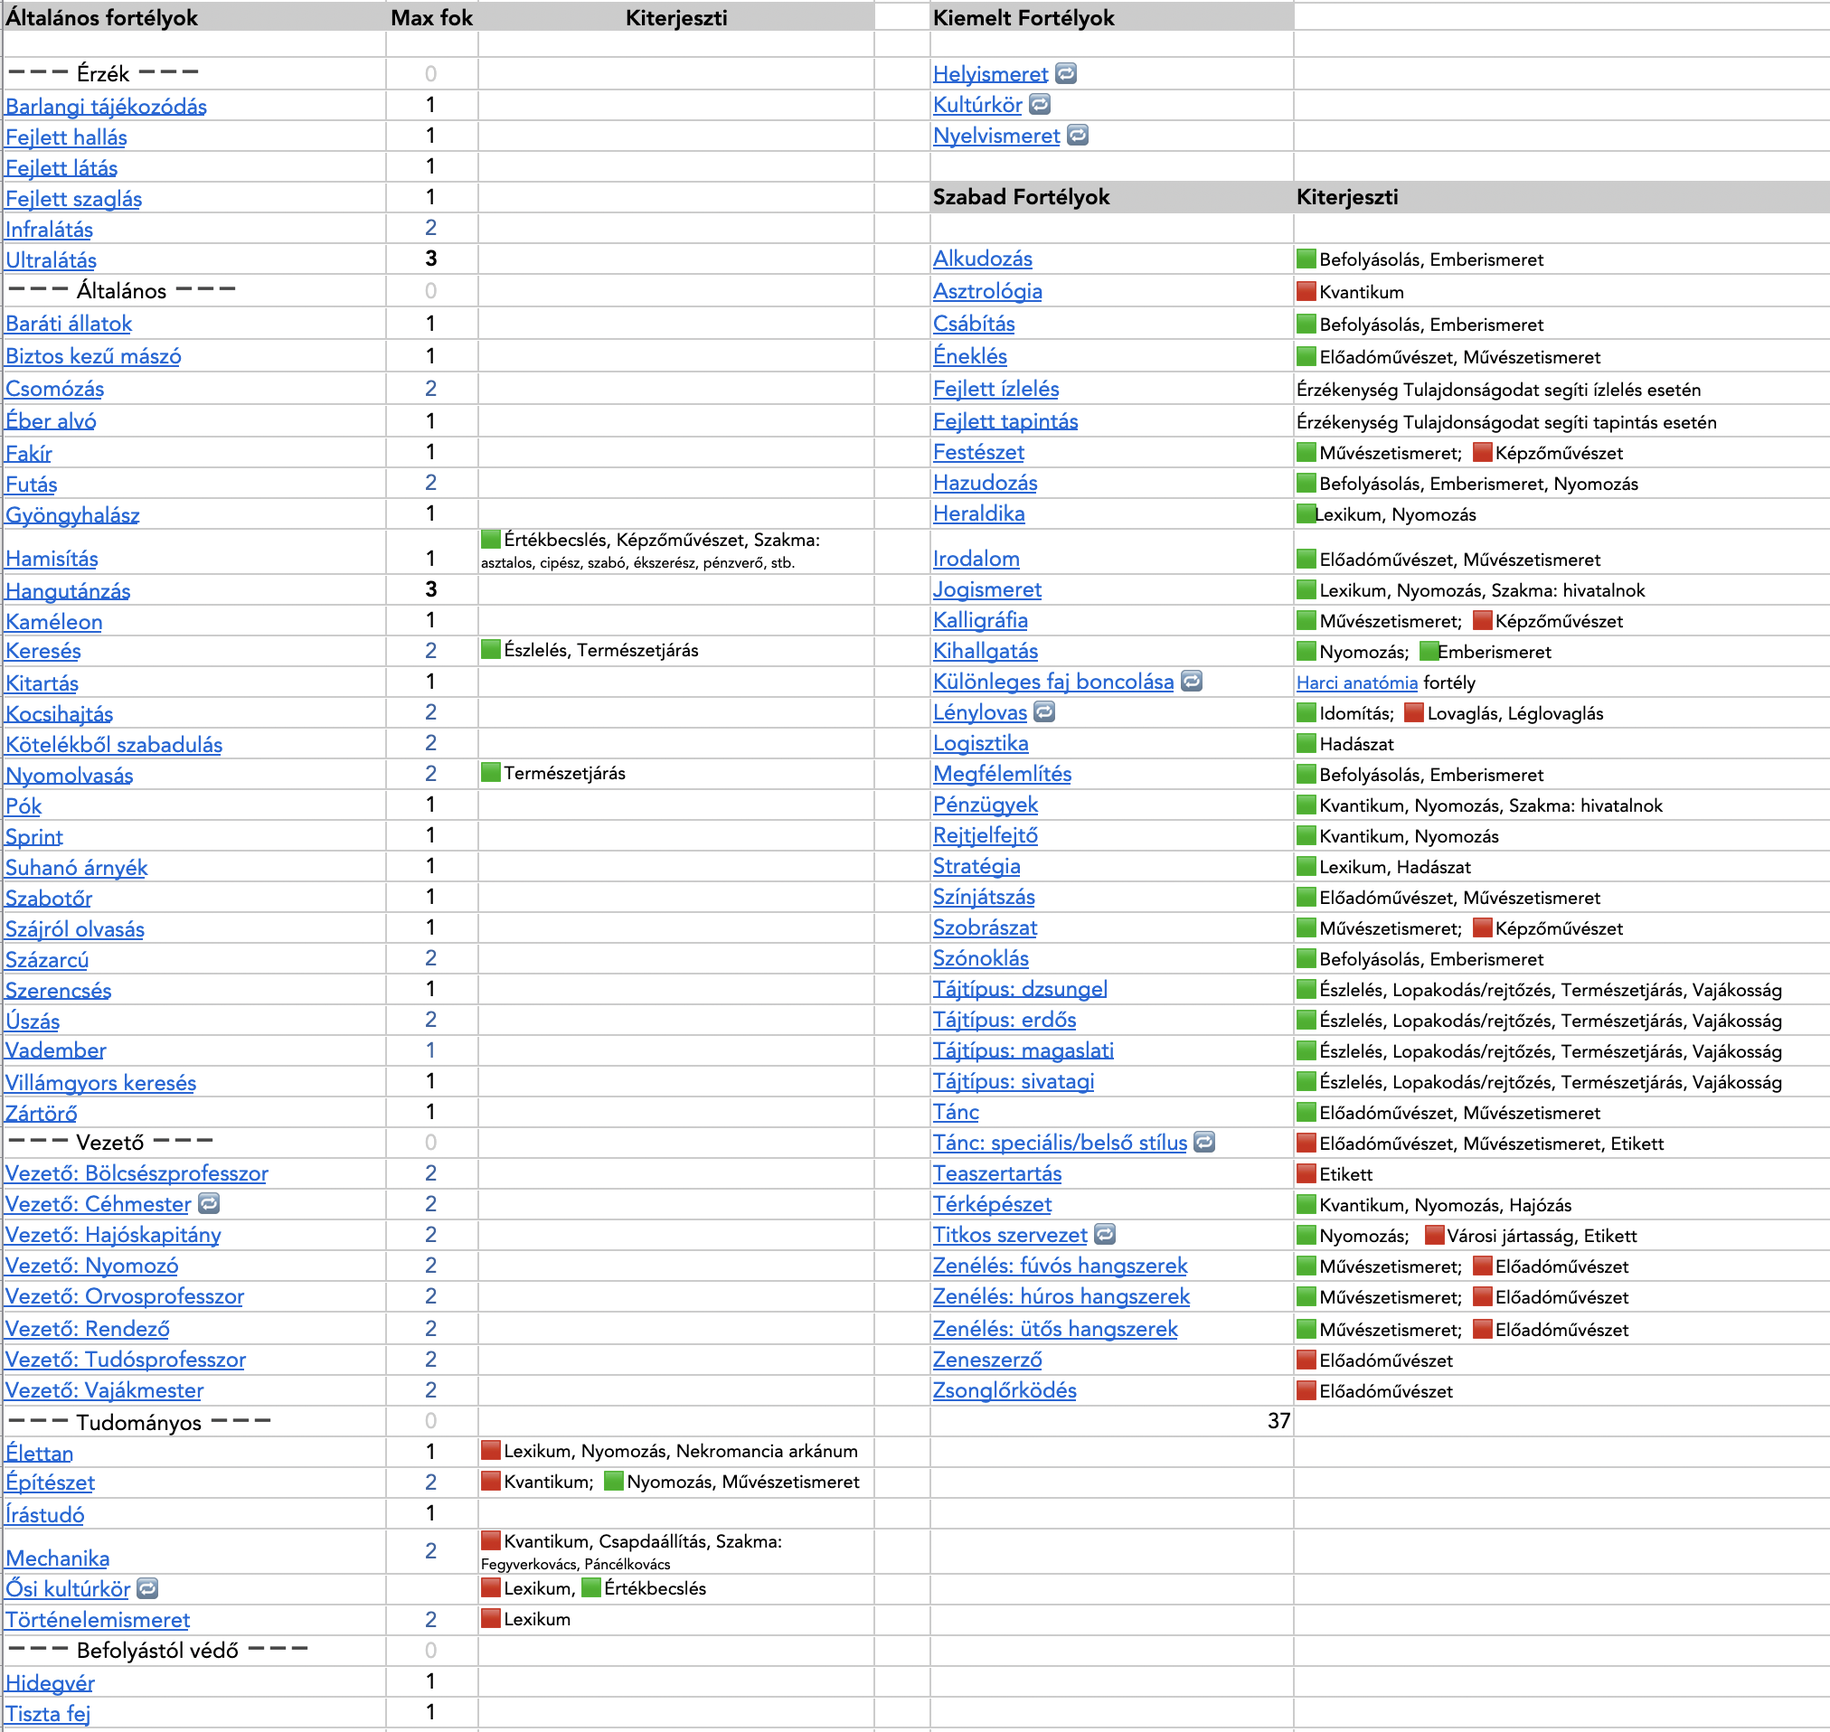
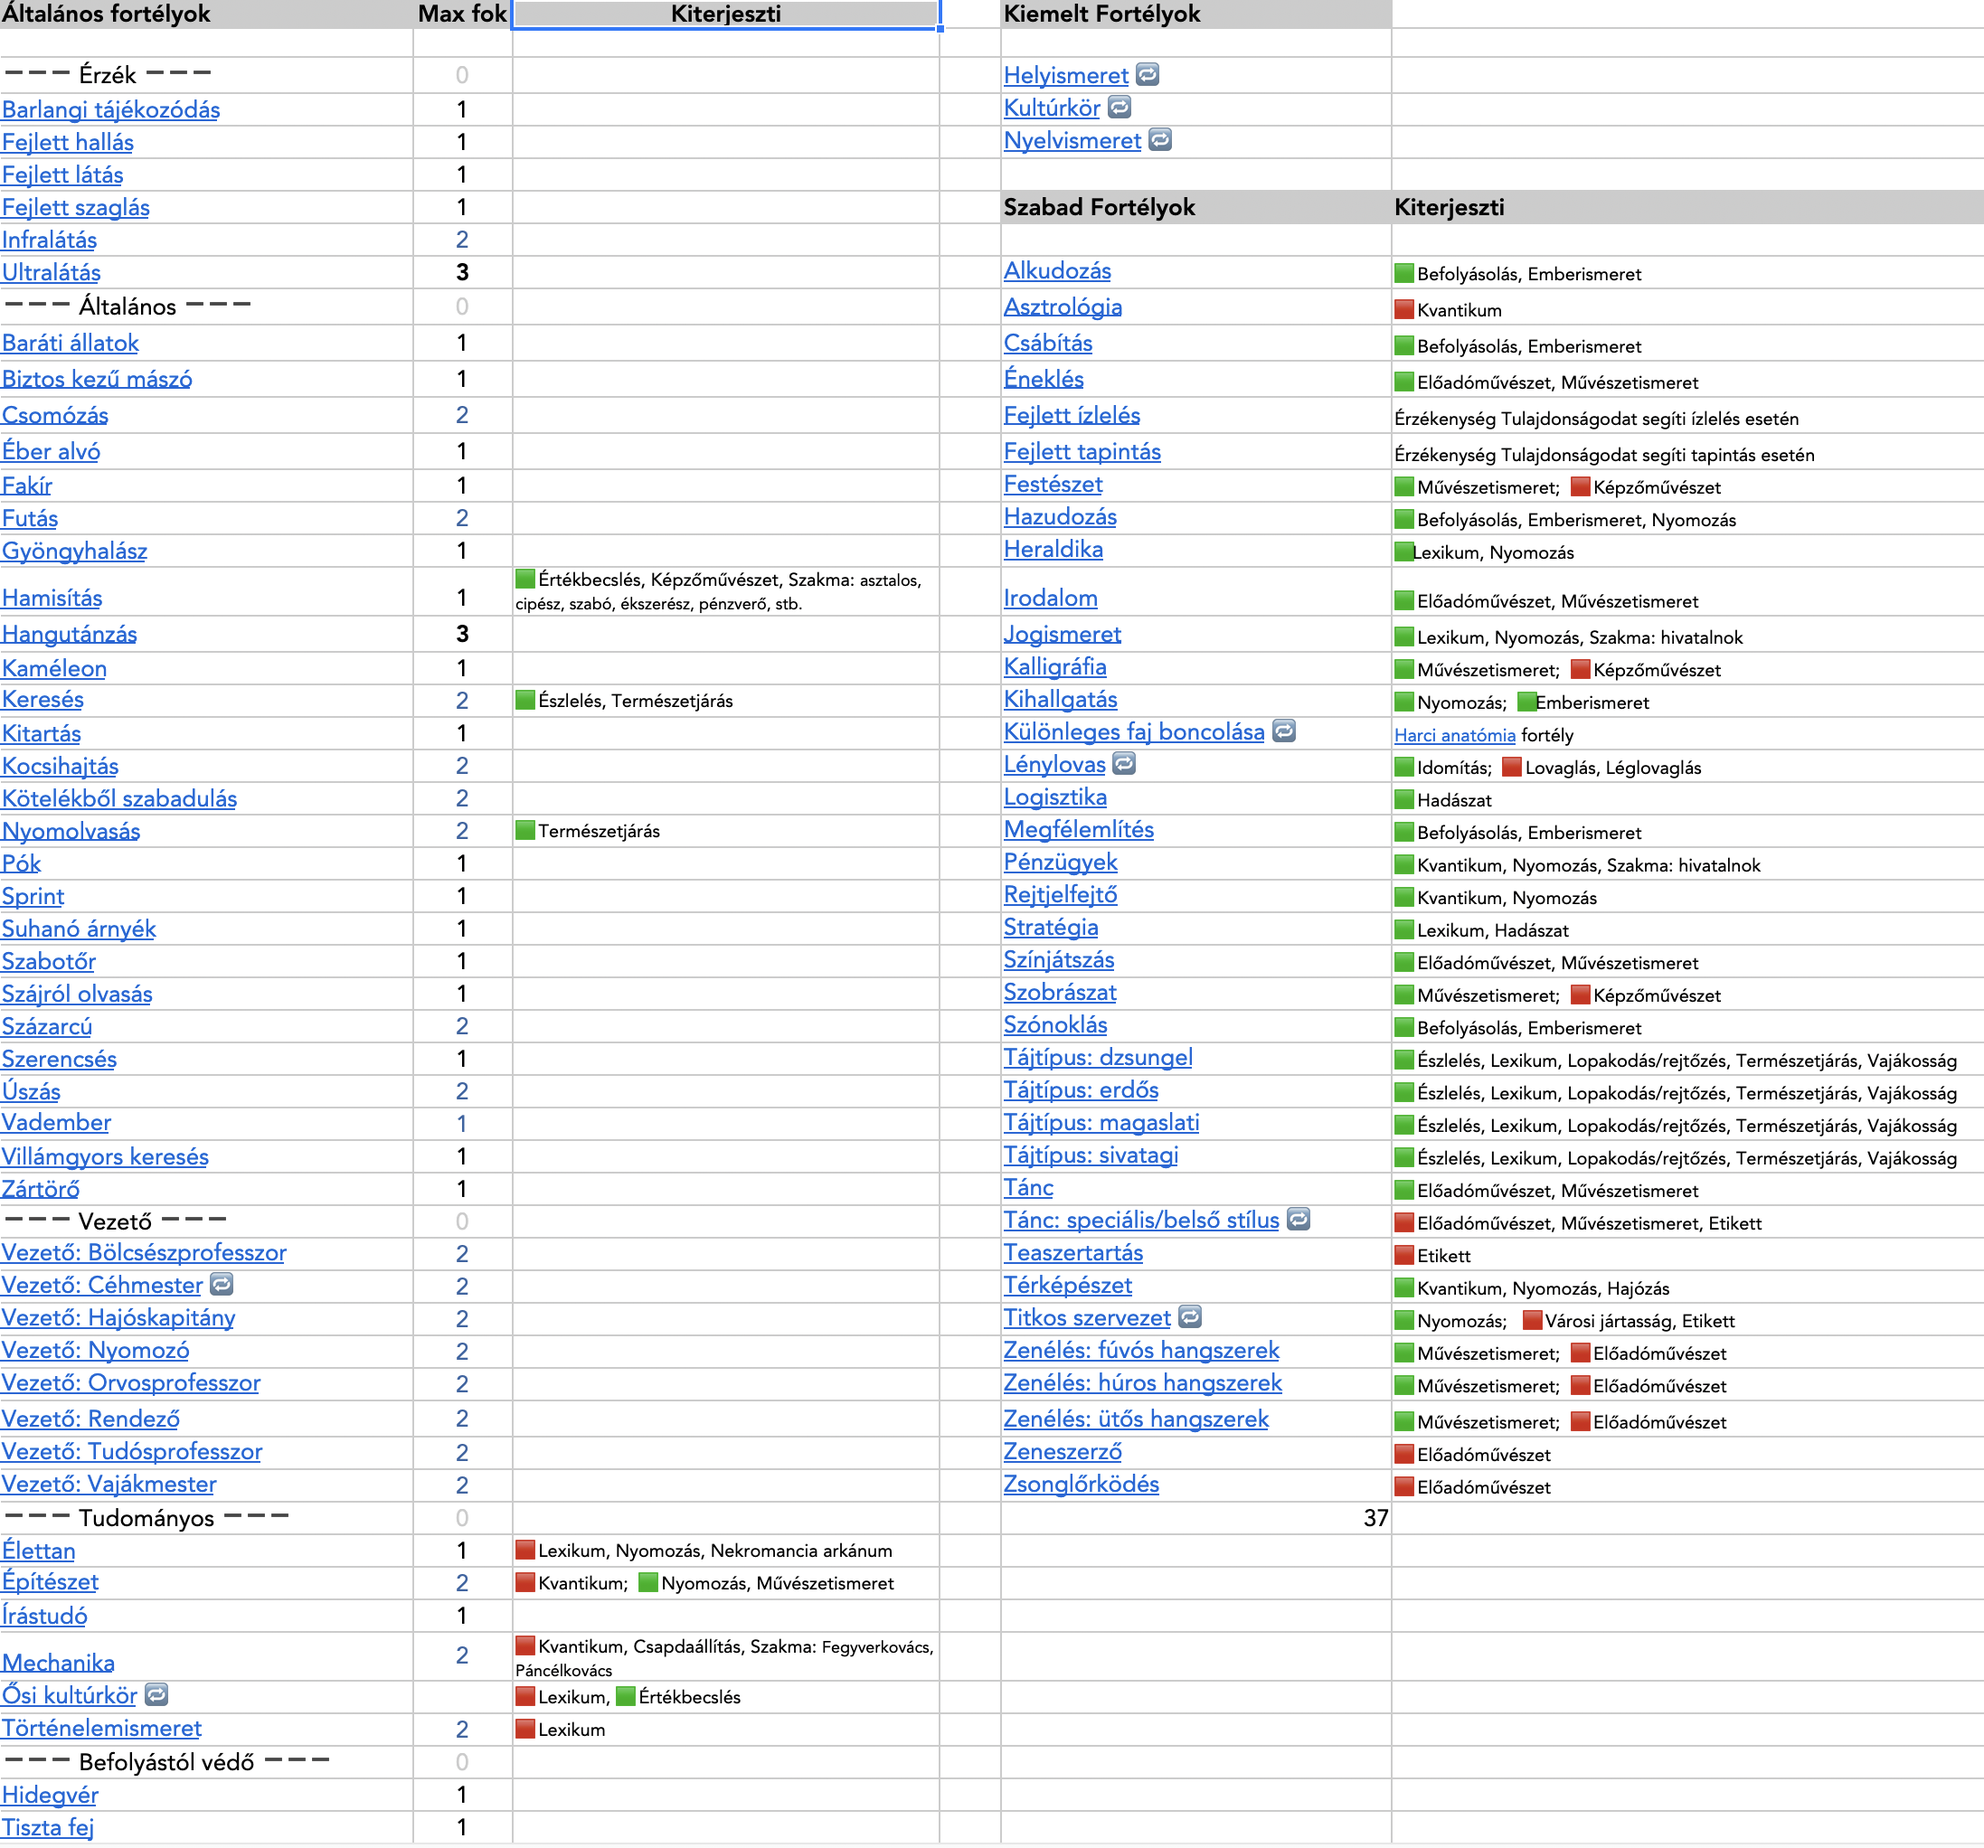
Ábra regenerálás: Fortélyok, Harci fortélyok kiterjesztéslistája

Changed region(s): [[0.0, 0.0, 1.0, 1.0]]

diff --git a/md/030_08_03_harci_fortelyok_kepzettsegkiterjesztes_listaja.md b/md/030_08_03_harci_fortelyok_kepzettsegkiterjesztes_listaja.md
@@ -3,7 +3,9 @@
 🟩 Normál kiterjesztés\
 🟥 Erős kiterjesztés
 
-![](images/038_harci_fortelyok_kiterjeszteslistaja.png)
+![](images/038_harci_fortelyok_kiterjeszteslistaja_1.png)
+
+![](images/038_harci_fortelyok_kiterjeszteslistaja_2.png)
 
 ---
 
